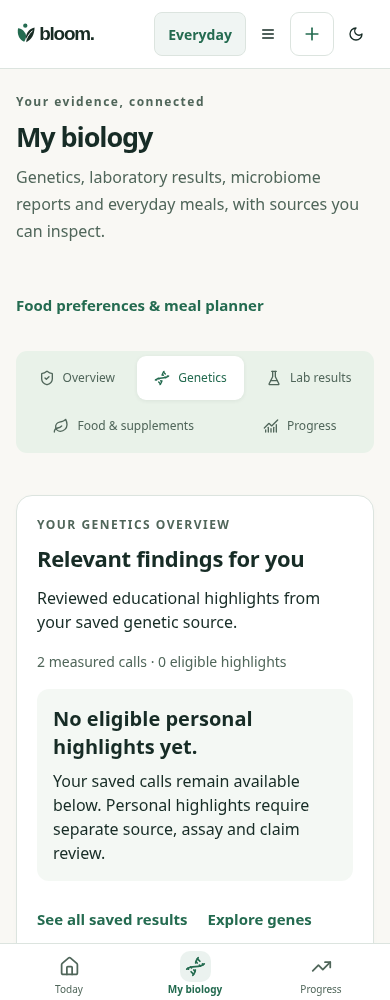
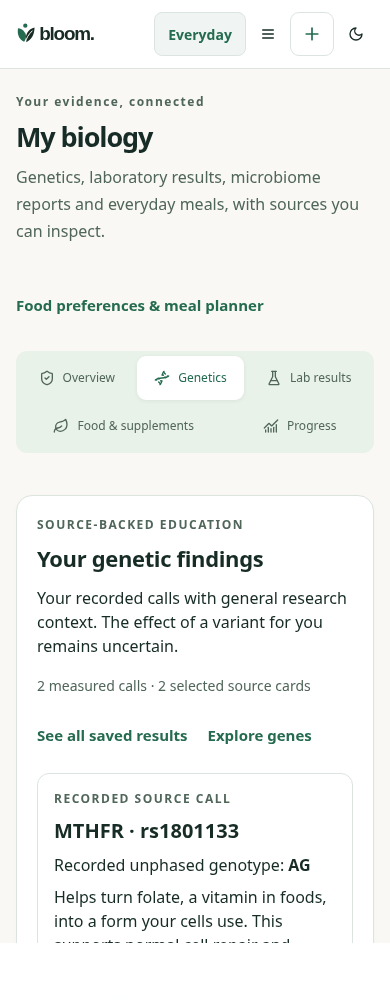
Show observed genetics source cards without gating general education on clinical claims

Changed region(s): [[0.0923, 0.496, 0.8923, 1.0], [0.7692, 0.961, 0.8615, 1.0]]

diff --git a/client/src/components/GeneticHighlights.tsx b/client/src/components/GeneticHighlights.tsx
@@ -1,9 +1,12 @@
 import type {GeneticHighlightProjection} from "@shared/genetics-relevance";
+import {selectObservedGeneticEducation} from "@shared/genetics-relevance";
+import type {GenotypeExplanation} from "@shared/genotype-explanations";
 import {useState} from "react";
 
 const focusTarget=(id:string)=>{requestAnimationFrame(()=>document.getElementById(id)?.focus());};
-export default function GeneticHighlights({projection,hasSource}:{projection:GeneticHighlightProjection;hasSource:boolean}){
+export default function GeneticHighlights({projection,hasSource,entries,sourceDescription}:{projection:GeneticHighlightProjection;hasSource:boolean;entries:GenotypeExplanation[];sourceDescription:string}){
  const {counts}=projection;
+ const education=selectObservedGeneticEducation(hasSource?entries:[]);
  const [all,setAll]=useState(false),[sort,setSort]=useState("relevance");
  const findings=all?[...projection.eligible]:projection.highlights;
  if(all&&sort==="gene")findings.sort((a,b)=>a.claim.gene.localeCompare(b.claim.gene)||a.claim.id.localeCompare(b.claim.id));
@@ -12,12 +15,24 @@ export default function GeneticHighlights({projection,hasSource}:{projection:Gen
   findings.sort((a,b)=>order[a.claim.evidence.credibility]-order[b.claim.evidence.credibility]||a.claim.id.localeCompare(b.claim.id));
  }
  return <section className="bloom-panel space-y-4" aria-labelledby="genetic-highlights-title">
-  <div><p className="eyebrow">YOUR GENETICS OVERVIEW</p><h2 id="genetic-highlights-title">Relevant findings for you</h2>
-   <p>Reviewed educational highlights from your saved genetic source.</p></div>
-  <p className="panel-note">{counts.measured} measured calls · {counts.personalEligible} eligible highlights</p>
-  {!counts.selected?<div className="rounded-xl bg-muted/50 p-4 space-y-2"><h3>No eligible personal highlights yet.</h3>
-   <p>{hasSource?"Your saved calls remain available below. Personal highlights require separate source, assay and claim review.":"No genetic source is selected."}</p>
-   {!hasSource&&<p>Explore genes without uploading DNA.</p>}</div>:
+  <div><p className="eyebrow">SOURCE-BACKED EDUCATION</p><h2 id="genetic-highlights-title">Your genetic findings</h2>
+   <p>Your recorded calls with general research context. The effect of a variant for you remains uncertain.</p></div>
+  <p className="panel-note">{counts.measured} measured calls · {education.selected.length} selected source cards</p>
+  <nav className="flex flex-wrap gap-x-5 gap-y-2" aria-label="Genetics views">
+   {hasSource&&<a className="text-link inline-flex min-h-11 items-center" href="#genotype-explanations" onClick={()=>focusTarget("genotype-explanations")}>See all saved results</a>}
+   <a className="text-link inline-flex min-h-11 items-center" href="#genetics-catalogue" onClick={()=>focusTarget("genetics-catalogue")}>Explore genes</a>
+  </nav>
+  {!!education.selected.length&&<div className="space-y-3">{education.selected.map(entry=><article key={entry.rsid} className="rounded-xl border border-border p-4 space-y-2" aria-label={`Source finding ${entry.rsid}`}>
+   <p className="eyebrow">RECORDED SOURCE CALL</p><h3>{entry.gene} · {entry.rsid}</h3><p>Recorded unphased genotype: <strong>{entry.genotype}</strong></p>
+   <p>{entry.geneRole}</p><p className="panel-note">Variant-specific personal effects: research under review. This general gene description does not establish altered function, deficiency or a personal diet change.</p>
+   <details><summary className="min-h-11 py-2 cursor-pointer focus-visible:outline focus-visible:outline-2">Why this is shown</summary><p>Your selected source contains this readable call and Bloom has cited general background for this gene. Up to five source cards appear in stable gene order; related FADS calls are grouped. This selection is not a predicted personal effect or a risk ranking.</p></details>
+   <details><summary className="min-h-11 py-2 cursor-pointer focus-visible:outline focus-visible:outline-2">Source & research references</summary><div className="space-y-2"><p>{sourceDescription}</p><p>Stored call: {entry.genotype}. {entry.sourceCall?`Original token: ${entry.sourceCall.original}. No strand flip was performed.`:"Original call text was not retained."}</p><p>Source status: {entry.status==="outside-studied-pair"?"Observed reference-compatible letters; the existing study comparison does not cover this call.":"Letters match an existing educational comparison; assay suitability and individual effects remain separate."} Self-entered calls are not clinical verification.</p>
+    <ul>{entry.sources.map(source=><li key={source.url}><a className="text-link inline-flex min-h-11 items-center" href={source.url} target="_blank" rel="noopener noreferrer" referrerPolicy="no-referrer">{source.title}</a></li>)}</ul>
+   </div></details>
+  </article>)}</div>}
+  {!education.selected.length&&<div className="rounded-xl bg-muted/50 p-4 space-y-2"><p>{hasSource?"No supported source cards are selected. Review all saved calls for missing, ambiguous or sensitive source states.":"No genetic source is selected."}</p><p>Explore genes without uploading DNA.</p></div>}
+  <details><summary className="min-h-11 py-2 cursor-pointer focus-visible:outline focus-visible:outline-2">Personalized interpretation</summary><div className="space-y-3">
+  {!counts.selected?<p>No personalized interpretations are enabled. Source-backed education above remains available while specific effect claims are reviewed.</p>:
    <><p role="status">Showing {all?counts.personalEligible:counts.selected} of {counts.personalEligible} eligible educational claims. {all?"Related claims are shown separately here; they do not establish independent additive effects.":"Related findings may be grouped."}</p>
     {counts.personalEligible>counts.selected&&<button className="text-link min-h-11 focus-visible:outline focus-visible:outline-2" type="button" aria-expanded={all} onClick={()=>setAll(!all)}>{all?"Show selected highlights":"See all eligible findings"}</button>}
     {all&&<label className="block">Sort eligible findings<select className="bloom-input w-full" value={sort} onChange={event=>setSort(event.target.value)}><option value="relevance">Relevant to me</option><option value="evidence">Evidence</option><option value="gene">Gene</option></select></label>}
@@ -32,10 +47,6 @@ export default function GeneticHighlights({projection,hasSource}:{projection:Gen
       <ul>{claim.evidence.citations.map(citation=><li key={citation.url}><a className="text-link inline-flex min-h-11 items-center" href={citation.url} target="_blank" rel="noopener noreferrer" referrerPolicy="no-referrer">{citation.title}</a></li>)}</ul>
      </div></details>
     </article>)}</div></>}
-  <nav className="flex flex-wrap gap-x-5 gap-y-2" aria-label="Genetics views">
-   {hasSource&&<a className="text-link inline-flex min-h-11 items-center" href="#genotype-explanations" onClick={()=>focusTarget("genotype-explanations")}>See all saved results</a>}
-   <a className="text-link inline-flex min-h-11 items-center" href="#genetics-catalogue" onClick={()=>focusTarget("genetics-catalogue")}>Explore genes</a>
-  </nav>
   <details><summary className="min-h-11 py-2 cursor-pointer focus-visible:outline focus-visible:outline-2">How highlights are selected</summary><div className="space-y-2">
    <p>{counts.catalogued} catalogued candidates · {counts.matchedEducation} matched educational {counts.matchedEducation===1?"explanation":"explanations"} · {counts.reviewedExplanations} reviewed highlight claims · {counts.personalEligible} personally eligible</p>
    <p>Eligibility comes first: an observed compatible call, source placement, verified assay, consent, reviewed variant–phenotype claim and suitable population evidence. Sensitive, clinical and medication interpretations are excluded.</p>
@@ -44,6 +55,7 @@ export default function GeneticHighlights({projection,hasSource}:{projection:Gen
    <p>{counts.interpretable} observed variants qualify for reviewed personal interpretation. Matched educational comparisons and user-reported calls are counted separately; self-entered calls are not clinical confirmation.</p>
    <p>A missing highlight does not mean a normal, negative or protective result. This selection does not describe your whole genome or establish a treatment.</p>
    <p className="panel-note">Selection version {projection.version}; claim registry {projection.registryVersion}. Source changes and claim withdrawal are evaluated on each refreshed report. No personal highlight is written into a food or training plan.</p>
+  </div></details>
   </div></details>
  </section>;
 }

diff --git a/docs/review/genetics-relevance-20261105/comparison.html b/docs/review/genetics-relevance-20261105/comparison.html
@@ -1,1 +1,1 @@
-<!doctype html><html lang="en"><meta charset="utf-8"><meta name="viewport" content="width=device-width, initial-scale=1"><title>Genetics overview — synthetic before/after</title><style>body{margin:24px;font:16px system-ui;color:#183b31;background:#f6f8f5}main{max-width:1100px;margin:auto}section{display:flex;flex-wrap:wrap;gap:24px}figure{margin:0;width:390px;max-width:100%}.screen{position:relative}img{display:block;width:100%;height:auto;border:1px solid #b6c7bc}.callout{position:absolute;left:2%;border-radius:50%;background:#b45309;color:white;width:26px;height:26px;display:grid;place-items:center;border:2px solid white;box-shadow:0 1px 5px #222}figcaption{padding:8px 0}a{color:inherit}li{margin-bottom:8px}</style><main><h1>Genetics overview</h1><p>Matched synthetic source, same page, viewport, theme and three saved calls. Original captures are unchanged. Review is implementation evidence, not independent Design or scientific approval.</p><ol><li>A compact overview separates saved calls from reviewed, eligible highlights. This source correctly has zero highlights.</li><li>Direct links keep all saved results and the 17-domain explorer accessible; selection details and counts are folded.</li></ol><h2>320px · light</h2><section><figure><div class="screen"><img alt="Before: genetics starts with the complete research explorer" src="before-320-light.png"></div><figcaption>Before</figcaption></figure><figure><div class="screen"><img alt="After: compact genetics overview with honest empty highlight state" src="after-320-light.png"><span aria-hidden="true" class="callout" style="top:50%">1</span><span aria-hidden="true" class="callout" style="top:85%">2</span></div><figcaption>After — numbered callouts above</figcaption></figure></section><h2>390px · light</h2><section><figure><div class="screen"><img alt="Before: genetics starts with the complete research explorer" src="before-390-light.png"></div><figcaption>Before</figcaption></figure><figure><div class="screen"><img alt="After: compact genetics overview with honest empty highlight state" src="after-390-light.png"><span aria-hidden="true" class="callout" style="top:50%">1</span><span aria-hidden="true" class="callout" style="top:85%">2</span></div><figcaption>After — numbered callouts above</figcaption></figure></section><h2>390px · dark</h2><section><figure><div class="screen"><img alt="Before: genetics starts with the complete research explorer" src="before-390-dark.png"></div><figcaption>Before</figcaption></figure><figure><div class="screen"><img alt="After: compact genetics overview with honest empty highlight state" src="after-390-dark.png"><span aria-hidden="true" class="callout" style="top:50%">1</span><span aria-hidden="true" class="callout" style="top:85%">2</span></div><figcaption>After — numbered callouts above</figcaption></figure></section></main></html>
+<!doctype html><html lang="en"><meta charset="utf-8"><meta name="viewport" content="width=device-width, initial-scale=1"><title>Genetics overview — synthetic before/after</title><style>body{margin:24px;font:16px system-ui;color:#183b31;background:#f6f8f5}main{max-width:1100px;margin:auto}section{display:flex;flex-wrap:wrap;gap:24px}figure{margin:0;width:390px;max-width:100%}.screen{position:relative}img{display:block;width:100%;height:auto;border:1px solid #b6c7bc}.callout{position:absolute;left:2%;border-radius:50%;background:#b45309;color:white;width:26px;height:26px;display:grid;place-items:center;border:2px solid white;box-shadow:0 1px 5px #222}figcaption{padding:8px 0}a{color:inherit}li{margin-bottom:8px}</style><main><h1>Genetics overview</h1><p>Matched synthetic source, same page, viewport, theme and three saved calls. Original captures are unchanged. Review is implementation evidence, not independent Design or scientific approval.</p><ol><li>A compact overview separates saved calls from reviewed, eligible highlights. This source correctly has two ordinary source cards while personalized effect claims remain unavailable.</li><li>Direct links keep all saved results and the 17-domain explorer accessible; selection details and counts are folded.</li></ol><h2>320px · light</h2><section><figure><div class="screen"><img alt="Before: genetics starts with the complete research explorer" src="before-320-light.png"></div><figcaption>Before</figcaption></figure><figure><div class="screen"><img alt="After: genetics overview with observed source cards and caveated general education" src="after-320-light.png"><span aria-hidden="true" class="callout" style="top:50%">1</span><span aria-hidden="true" class="callout" style="top:70%">2</span></div><figcaption>After — numbered callouts above</figcaption></figure></section><h2>390px · light</h2><section><figure><div class="screen"><img alt="Before: genetics starts with the complete research explorer" src="before-390-light.png"></div><figcaption>Before</figcaption></figure><figure><div class="screen"><img alt="After: genetics overview with observed source cards and caveated general education" src="after-390-light.png"><span aria-hidden="true" class="callout" style="top:50%">1</span><span aria-hidden="true" class="callout" style="top:70%">2</span></div><figcaption>After — numbered callouts above</figcaption></figure></section><h2>390px · dark</h2><section><figure><div class="screen"><img alt="Before: genetics starts with the complete research explorer" src="before-390-dark.png"></div><figcaption>Before</figcaption></figure><figure><div class="screen"><img alt="After: genetics overview with observed source cards and caveated general education" src="after-390-dark.png"><span aria-hidden="true" class="callout" style="top:50%">1</span><span aria-hidden="true" class="callout" style="top:70%">2</span></div><figcaption>After — numbered callouts above</figcaption></figure></section></main></html>

diff --git a/tests/genetics-relevance.test.ts b/tests/genetics-relevance.test.ts
@@ -1,6 +1,7 @@
 import test from 'node:test';
 import assert from 'node:assert/strict';
-import {geneticHighlightClaims,geneticHighlightClaimSchema,selectGeneticHighlights,type GeneticHighlightClaim,type GeneticHighlightSource} from '../shared/genetics-relevance';
+import {geneticHighlightClaims,geneticHighlightClaimSchema,selectGeneticHighlights,selectObservedGeneticEducation,type GeneticHighlightClaim,type GeneticHighlightSource} from '../shared/genetics-relevance';
+import {explainGenotypes} from '../shared/genotype-explanations';
 import {buildPrecisionReport,contextSchema,parse23andMe,precisionEntrySchema} from '../shared/precision-nutrition';
 import {defaultPreferences} from '../shared/meal-intelligence';
 
@@ -103,4 +104,13 @@ test('real report adapter preserves raw/legacy education without claiming verifi
  assert.equal(precisionEntrySchema.safeParse({kind:'genetics',payload:{...payload,highlightClaims:[claim()],assayVerified:true}}).success,false);
  assert.equal(report.genetics.personalHighlights.counts.reviewedExplanations,0);
  const erased=buildPrecisionReport([],contextSchema.parse({}),defaultPreferences,null);assert.equal(erased.genetics.personalHighlights.counts.measured,0);assert.deepEqual(erased.genetics.personalHighlights.highlights,[]);
+});
+test('source-observed education remains useful without claim approval: exact ordinary calls, uncertain study comparison, no-call/strand/sensitive/duplicate safeguards',()=>{
+ const entries=explainGenotypes([{rsid:'rs1801133',genotype:'AG'},{rsid:'rs7903146',genotype:'GT'},{rsid:'rs174547',genotype:'--'},{rsid:'rs429358',genotype:'CC'},{rsid:'rs1800562',genotype:'AA'}],true);
+ const before=JSON.stringify(entries),education=selectObservedGeneticEducation(entries);
+ assert.deepEqual(education.selected.map(e=>e.rsid),['rs1801133','rs7903146']);assert.equal(geneticHighlightClaims.length,0);
+ assert.equal(education.selected[1].status,'outside-studied-pair');assert.equal(education.selected[1].genotype,'GT');assert.ok(education.selected.every(e=>e.sources.length&&e.geneRole));
+ assert.deepEqual(selectObservedGeneticEducation(explainGenotypes([{rsid:'rs1801133',genotype:'AG'}],false)).selected,[]);
+ assert.deepEqual(selectObservedGeneticEducation([entries[0],{...entries[0],genotype:'--',status:'no-call'}]).selected,[]);
+ assert.equal(JSON.stringify(entries),before);assert.deepEqual(selectObservedGeneticEducation([]),{all:[],selected:[]});
 });

diff --git a/shared/genetics-relevance.ts b/shared/genetics-relevance.ts
@@ -1,4 +1,5 @@
 import {z} from "zod";
+import type {GenotypeExplanation} from "./genotype-explanations";
 
 export const GENETICS_RELEVANCE_VERSION = "genetics-relevance-2026-11-05.1";
 const token=z.string().min(1).max(120);
@@ -45,6 +46,22 @@ export type GeneticHighlightProjection={
 // claims here. Reviewed additions require an exact source/version change.
 export const GENETIC_HIGHLIGHT_REGISTRY_VERSION="genetic-highlight-claims-2026-11-05.1";
 export const geneticHighlightClaims:readonly GeneticHighlightClaim[]=[];
+
+/** Factual, owner-projected source calls with existing general gene education
+ * are not personalized biological-effect claims. Reuse the existing record
+ * and sources; never expose resultAdvice/comparison as the selected takeaway.
+ * Ambiguous/no-call/unsupported source states remain in the complete source
+ * reader, not presented as a confirmed observed genotype here. */
+export function selectObservedGeneticEducation(entries:readonly GenotypeExplanation[]){
+ const supported=entries.filter(entry=>/^[ACGT]{2}$/.test(entry.genotype)&&entry.referenceCompatibility==="compatible"&&
+  (entry.status==="matched"||entry.status==="outside-studied-pair")&&!!entry.geneRole&&!!entry.sources.length&&
+  !["rs429358","rs7412","rs1800562","rs1799945"].includes(entry.rsid));
+ const ambiguous=new Set(entries.filter((entry,index)=>entries.findIndex(e=>e.rsid===entry.rsid)!==index).map(entry=>entry.rsid));
+ const all=supported.filter(entry=>!ambiguous.has(entry.rsid)).sort((a,b)=>alphabetical(a.gene,b.gene)||alphabetical(a.rsid,b.rsid));
+ const selected:GenotypeExplanation[]=[],seen=new Set<string>();
+ for(const entry of all){const group=fads.has(entry.rsid)?"related-fads-pathway":entry.rsid;if(seen.has(group))continue;seen.add(group);selected.push(entry);if(selected.length===5)break;}
+ return{all,selected};
+}
 
 function exclusion(claim:GeneticHighlightClaim,source:GeneticHighlightSource|null):GeneticHighlightExclusion|null{
  if(!source)return "source-unavailable";

diff --git a/client/src/pages/PrecisionNutrition.tsx b/client/src/pages/PrecisionNutrition.tsx
@@ -517,7 +517,7 @@ export default function PrecisionNutrition() {
             )}
             {tab === "genetics" && (
               <>
-                {r.genetics.personalHighlights&&<GeneticHighlights key={`highlights:${user?.id}:${r.genetics.import?.id}:${r.genetics.personalHighlights.registryVersion}`} projection={r.genetics.personalHighlights} hasSource={!!r.genetics.import} />}
+                {r.genetics.personalHighlights&&<GeneticHighlights key={`highlights:${user?.id}:${r.genetics.import?.id}:${r.genetics.personalHighlights.registryVersion}`} projection={r.genetics.personalHighlights} hasSource={!!r.genetics.import} entries={r.genetics.explanations||[]} sourceDescription={r.genetics.import?`${r.genetics.import.provider==="manual"?"User-entered source":"23andMe text source"} · build: ${r.genetics.import.build}; ${r.genetics.import.provider==="23andMe"||r.genetics.manual?.strand==="forward"?"forward strand reported":"strand not confirmed"}.`:"No selected source."} />}
                 <GeneticsCatalogue key={user?.id} explanations={r.genetics.explanations || []} />
                 <div id="genetics-source-entry" className="scroll-mt-20" tabIndex={-1}><ManualGenetics
                   key={r.genetics.import?.id || "none"}

diff --git a/docs/operations/GENETICS_PERSONAL_HIGHLIGHTS.md b/docs/operations/GENETICS_PERSONAL_HIGHLIGHTS.md
@@ -6,10 +6,12 @@ Controlling scope: `docs/architecture/GENETICS_PERSONAL_RELEVANCE_DECISION_2026-
 
 Evidence credibility precedes exact recorded goal and active canonical laboratory-marker context, with stable gene/claim ties. No numeric health/risk score, rarity bonus, inference of deficiency, additive correlated effects or plan mutation. FADS related markers collapse unless independently reviewed distinct effects are explicitly referenced; duplicate variants show once. Five is a ceiling, not a quota. See All preserves eligible claims separately, with related-effect warning and relevance/evidence/gene sorts.
 
-Production claim registry is deliberately empty: existing descriptions/bibliography/legacy `reviewed` flags are not independent claim approvals. Current manual/raw source contracts also lack verified assay evidence. No real personal highlight is enabled by this commit. The actual report adapter keeps literal assay notes unverified, uses current active source only, and supplies separately recorded goals/canonical active lab IDs for relevance only. Personal-qualified variants, matched educational comparisons, measured calls, catalogue candidates, reviewed claim records and eligible claims have separate counts.
+Production claim registry is deliberately empty: existing descriptions/bibliography/legacy `reviewed` flags are not independent claim approvals. Current manual/raw source contracts also lack verified assay evidence. No new personalized effect/action claim is enabled. Factual source-backed educational cards are enabled under the later Architect clarification. The actual report adapter keeps literal assay notes unverified, uses current active source only, and supplies separately recorded goals/canonical active lab IDs for relevance only. Personal-qualified variants, matched educational comparisons, measured calls, catalogue candidates, reviewed claim records and eligible claims have separate counts.
 
-The page starts with a compact honest zero-highlight overview and direct keyboard-focusable links to all saved results and the complete17-domain explorer. Detailed counts and selection methods are folded. Source/owner/registry change remounts presentation; projection is recomputed from canonical source and current code-owned claims, with no separate persisted highlight store. Existing source erasure resets the precision response cache. The selector tests immediate recomputation on delete/revoke/normalization correction/retraction. This is not proof of cross-device live revocation or a future remote Biology review service.
+The page starts with Your genetic findings: up to5 ordinary readable source calls with existing general gene biology and citations. The selector excludes no-call, unknown orientation, unsupported/incompatible/duplicate and sensitive calls; reference-compatible letters outside the old study contrast remain available as source facts without inventing an effect. It reuses the existing explanation/source objects and does not display resultAdvice or genotype–phenotype comparison text as the selected takeaway. Personalized interpretation is a separate folded surface and correctly has no approved effect/action claims. Direct keyboard-focusable links retain all saved results and the complete17-domain explorer. Detailed counts and selection methods are folded. Source/owner/registry change remounts presentation; projection is recomputed from canonical source and current code-owned claims, with no separate persisted highlight store. Existing source erasure resets the precision response cache. The selector tests immediate recomputation on delete/revoke/normalization correction/retraction. This is not proof of cross-device live revocation or a future remote Biology review service.
 
-Validation:556/556 full tests pass199876ms before final compact copy/context binding; final focused/types/build and browser rerun recorded separately in development log. Nine new contract/adapter tests include200catalogue/70measured/55reviewed/3eligible, eligibility failures, population/unknown intervals, stable ordering, linked FADS, APOE/absent LPA/GC truth, withdrawal and no API override. Existing real HTTP manual-genetics test verifies two owners and zero promotion. Actual App QA tests source/no-source, counts, all source explanations, unsupported call, anchor focus,320/390light-dark/200% desktop zoom and reload withdrawal. A separate explicit synthetic API-only seven-eligible fixture verifies five-card ceiling, Why shown, unknown effects, source links, See All/sorts and withdrawal; it is not real science or production assay acceptance.
+Validation:556/556 full tests pass199876ms before final compact copy/context binding; final focused/types/build and browser rerun recorded separately in development log. Ten new contract/adapter tests include200catalogue/70measured/55reviewed/3eligible, eligibility failures, population/unknown intervals, stable ordering, linked FADS, APOE/absent LPA/GC truth, withdrawal and no API override. Existing real HTTP manual-genetics test verifies two owners and zero promotion. Actual App QA tests source-observed educational cards/no-source, separate counts, all source explanations, unstudied reference-compatible call, anchor focus,320/390light-dark/200% desktop zoom and reload withdrawal. A separate explicit synthetic API-only seven-eligible fixture verifies five-card ceiling, Why shown, unknown effects, source links, See All/sorts and withdrawal; it is not real science or production assay acceptance.
 
 Matched before/after and annotated comparison: `docs/review/genetics-relevance-20261105/`. Physical VoiceOver, independent Design/Science/UT and exact hosted user acceptance are NOT_RUN. No new database/schema/provider/analytics, new clinical rule, user data export or raw-genotype telemetry. Remaining content activation requires exact reviewed claims and assay applicability; do not fabricate those reviews or suppress existing educational browsing.
+
+Final source-education clarification validation:35 focused tests/types/build and actual App browser journey pass after merge of Architect3c5290f. No repeated full suite for this bounded adjustment; prior556 full regression and automatic exact-commit CI remain separate evidence. The old zero-overview screenshot was replaced with matched final source-card captures; before originals are unchanged.

diff --git a/NEXT_ACTIONS.md b/NEXT_ACTIONS.md
@@ -8,15 +8,14 @@ v0.5 first, then independent approvedv0.6 when actionablev0.5 exhausted. Branch 
 
 ## Publish current verified slice
 
-Genetics exact-claim eligibility and compact overview, following Architect fca7c9e / `GENETICS_PERSONAL_RELEVANCE_DECISION_2026-11-05.md`.556full199876ms; final34focused/types/build and App source/no-source/positive synthetic fixture checks. Production review registry empty and actual assay status unverified: zero real personal highlights, existing29education/search/55candidates retained. No risk score, source edits or plan changes. Research150–250 is no longer a release-blocking quota. See operations/GENETICS_PERSONAL_HIGHLIGHTS.md and review/genetics-relevance-20261105. Commit/push and verify exactCI/Render.
+Genetics exact-claim eligibility and compact overview, following Architect fca7c9e / `GENETICS_PERSONAL_RELEVANCE_DECISION_2026-11-05.md`.556full199876ms; final35focused/types/build and App source/no-source/positive synthetic fixture checks. Production review registry empty and actual assay status unverified: two synthetic observed source cards verified; zero new personalized effect/action claims. Existing29education/search/55candidates retained. No risk score, source edits or plan changes. Research150–250 is no longer a release-blocking quota. See operations/GENETICS_PERSONAL_HIGHLIGHTS.md and review/genetics-relevance-20261105. Finish publication after integrated Architect source-backed-education clarification, then verify exactCI/Render once.
 
 Prior bibliography ccd73be Actions42100921763SUCCESS. Latest Render observation fca7c9e dep-dbmefl3p0uus73f2kdng updating, not yet claimed live. Unit family software complete through93de93e; actual Render0016provisioning remains target-binding dependency, not unit implementation.
 
 ## Next concrete work
 
-1. Reconcile stale207-ID task states against actual current code/test artifacts and binding November5 Architect replacement decisions.43successor mapping already done; per-contract acceptance still open. Do not repeat missing-original wording/source hunt or infer full acceptance from test counts.
-2. Viome PDF-first deterministic parsing/privacy engineering uses existing canonical findings/import pipeline. See `VIOME_RENDER_UNBLOCK_2026-11-05.md` and controlling privacy decision. Architect-generated synthetic7/13page fixtures and private sanitized genuine7page layout are not transferred here. Genuine13page fidelity remains private materialization dependency. No private Library accessor currently available. Do not require JSON conversion or expose original bytes/PII/filenames/hash; do not fabricate genuine fidelity/security signoff. Continue safe synthetic engineering.
-3. Narrow source-correct MICRO06/FOOD08 evidence candidates and honest unknowns; no unreviewed personal claims. Preserve working Food→Today→Progress/exercise/owner journeys. Then immediately reconcileV06_HANDOFF and begin independentv0.6 when actionablev0.5 exhausted; external acceptance is not a general stop-work gate.
+1. Viome PDF-first deterministic parsing/privacy engineering uses existing canonical findings/import pipeline. See `VIOME_RENDER_UNBLOCK_2026-11-05.md` and controlling privacy decision. Architect-generated synthetic7/13page fixtures and private sanitized genuine7page layout are not transferred here. Genuine13page fidelity remains private materialization dependency. No private Library accessor currently available. Do not require JSON conversion or expose original bytes/PII/filenames/hash; do not fabricate genuine fidelity/security signoff. Continue safe synthetic engineering.
+2. Narrow source-correct MICRO06/FOOD08 evidence candidates and honest unknowns; no unreviewed personal claims. Preserve working Food→Today→Progress/exercise/owner journeys. Then immediately reconcileV06_HANDOFF and begin independentv0.6 when actionablev0.5 exhausted; external acceptance is not a general stop-work gate.
 
 ## Scoped limits
 

diff --git a/BACKLOG.md b/BACKLOG.md
@@ -1,12 +1,12 @@
 # Bloom autonomous development backlog
 
-Branch `enhance/bloom-experience`, existing PR1/Render preview only. Latest observed genetics bibliography ccd73be Actions42100921763SUCCESS; Architect fca7c9e preview updating at last observation. Current genetics highlight gate/overview locally verified, publication next. v0.5 remains active; v0.6 not started. Existing scoped Render0015/0016 target-binding and private fixture access remain technical dependencies. `NEXT_ACTIONS.md` is the executable checkpoint; older entries below are historical.
+Branch `enhance/bloom-experience`, existing PR1/Render preview only. Latest observed genetics bibliography ccd73be Actions42100921763SUCCESS; Architect fca7c9e preview updating at last observation. Current genetics highlight gate/overview and source-backed education verified, publication next. v0.5 remains active; v0.6 not started. Existing scoped Render0015/0016 target-binding and private fixture access remain technical dependencies. `NEXT_ACTIONS.md` is the executable checkpoint; older entries below are historical.
 
 ## Current v0.5 delivery and dependency checkpoint — 2026-11-05
 
 |Task / source IDs|Status|Delivered acceptance and evidence|Commit / dependency|
 |---|---|---|---|
-|UT-GEN-4213–4220 / BIO-GENREL-01–08 claim gate and overview|IMPLEMENTED_AND_TESTED bounded software; real claim/assay approval separate|Versioned exact-claim eligibility, honest0–5/LD grouping, ordinal Why/source/SeeAll/sorts, separate counts, no source or action mutation; registry empty/no fake approvals|556full/34focused/types/build/App source+synthetic positive presentation; private named inventory/independent reviews remain open|
+|UT-GEN-4213–4220 / BIO-GENREL-01–08 claim gate and overview|IMPLEMENTED_AND_TESTED bounded software; real claim/assay approval separate|Versioned exact-claim eligibility, source-backed0–5education plus separate effect-claim gate/LD grouping, ordinal Why/source/SeeAll/sorts, separate counts, no source or action mutation; registry empty/no fake approvals|556priorfull/35finalfocused/types/build/App source+synthetic positive presentation; private named inventory/independent reviews remain open|
 |ARC-UNIT-001 ingredient original capture / family closure|IMPLEMENTED_AND_TESTED software; Render0016 BLOCKED_TECHNICAL|Owner/source/grams-bound navigation, same review/store, exact originals and edits, foreign state clears; seven-family trace and scoped operational/device limits|546full/12focused/types/build/cold+production App→HTTP→PG PASS; publish capture next; no extra store or URL source data|
 |ARC-UNIT-001 Ingredient original-mass reader|IMPLEMENTED_AND_TESTED bounded reader|Strict optional source text/unit bound to canonical grams, legacy unknown, model parser cannot assert manual origins, folded review/saved disclosure and stale-edit clearing; same meal JSON/receipts/owner store|544full/11focused/types/build/App reader+actual HTTP-confirm/ownedSQL PASS. Publish reader then owner-bound capture handoff; parent remains partial|
 |ARC-UNIT-001 food portion draft / positive presentation|IMPLEMENTED_AND_TESTED bounded slice|Unfinished units retained, null canonical invalid state, exact g/oz meaning/original lexemes/max3000; tiny positive composition/source/mass no longer falsezero; no density or scientific output changes|541full/39focused/types/build/App→API five-width themes PASS. Ingredient original-mass handoff still next, parent remains partial|

diff --git a/DEVELOPMENT_LOG.md b/DEVELOPMENT_LOG.md
@@ -1358,3 +1358,5 @@ Independent VIOME-PDF02/07 groundwork now adds canonical optional provider-food 
 2026-11-05 — Added17 bibliography-backed pending genetics candidates and source details without genotype interpretation or assay expansion.55 candidates/26 pending/15 gene topics, minimum150 gap95.547/547 tests PASS196895ms;20 focused/types/build/browser PASS. Corrected browser exact-title punctuation after first timeout; final journey clean. No personal recommendations or independent scientific approval inferred. Full §5A reconciliation remains technical private-Library access, not a new owner question.
 
 2026-11-05 — Architect fca7c9e quality-over-volume intake implemented: strict versioned variant–phenotype eligibility before ordinal evidence/context order, exact call/placement/contrast/assay/population/consent gates, FADS correlation grouping and APOE/clinical/PGx exclusions. Empty production review registry; manual notes not verified assay, no new actual personal highlights or plan writes. Compact overview with direct source/explorer focus links, separate counts, Why/source/unknown values, optional SeeAll/relevance/evidence/gene sorts.556full PASS199876ms before final compact copy/context binding; final34focused/types/build/API inventory/crosswalk197files pass. Actual App source/no-source/unsupported-call/anchor/keyboard/320390dark200%/reload checks plus explicit synthetic API-only7eligible→5cards/SeeAll/sorts/Why/unknown/withdrawal presentation pass. Matched originals+annotated HTML retained; independent Design/Science/VoiceOver NOT_RUN.150–250 now progressive research coverage, not release quota. ccd73be Actions42100921763 SUCCESS; actual Render fca7c9e update observed, not yet claimed live. Publish then canonical stale-task reconciliation and remaining P0 Viome engineering; no blanket v0.5 completion.
+
+2026-11-05 — Integrated concurrent Architect3c5290f anti-loop and source-education correction (merge8fe24c0): factual observed ordinary genotypes with existing cited general gene function now appear as up to5 source cards. No clinical review required for factual source education. Personalized effect/action claims remain separately folded/gated, no new approvals inferred. Source GT outside old study contrast shown as observed letters with uncertain effects; no-call/unknown-strand/incompatible/duplicate/sensitive top cards excluded. SeeAll/source/explorer preserved; no effect/advice text substituted into source cards.35final focused/types/build and actual App source/no-source/positive synthetic effect-card presentation/withdrawal/320390dark200% PASS; no repeated broad suite for bounded correction. Before originals retained, after captures updated. Publication follows, then Viome PDF-first synthetic vertical task; do not spend next session solely on governance/status reconciliation.

diff --git a/docs/review/genetics-relevance-20261105/README.md b/docs/review/genetics-relevance-20261105/README.md
@@ -1,7 +1,7 @@
 # Genetics overview — synthetic review packet
 
-Before: fca7c9e source; after: personal-highlight candidate on same branch. Same synthetic manual source: MTHFR AG, TCF7L2 GT, FADS1 no-call. No real personal data or approved scientific claims. Source has2readable calls,1matched education comparison,0reviewed/eligible personal highlights.
+Before: fca7c9e source; after: personal-highlight candidate on same branch. Same synthetic manual source: MTHFR AG, TCF7L2 GT, FADS1 no-call. No real personal data or approved scientific claims. Source has2readable calls,1matched education comparison,0reviewed/eligible personalized effect claims;2ordinary source-backed educational cards remain useful.
 
-Open `comparison.html` for matched320/390light and390dark views with two numbered callouts; PNGs remain unannotated originals. The substantial change is the compact overview and direct source/explorer navigation, not new biological conclusions. Detailed counts/selection methods are folded; the full explorer and source explanations remain.
+Open `comparison.html` for matched320/390light and390dark views with two numbered callouts; PNGs remain unannotated originals. The substantial change is the source-observed educational cards, folded personalized interpretation, and direct source/explorer navigation, not new biological conclusions. Detailed counts/selection methods are folded; the full explorer and source explanations remain.
 
 `results.json` records browser coverage. Positive-card/sort checks use a separate synthetic API fixture after captures and are not scientific review. No real phone/VoiceOver, uncoached human study or independent Design approval was conducted.
